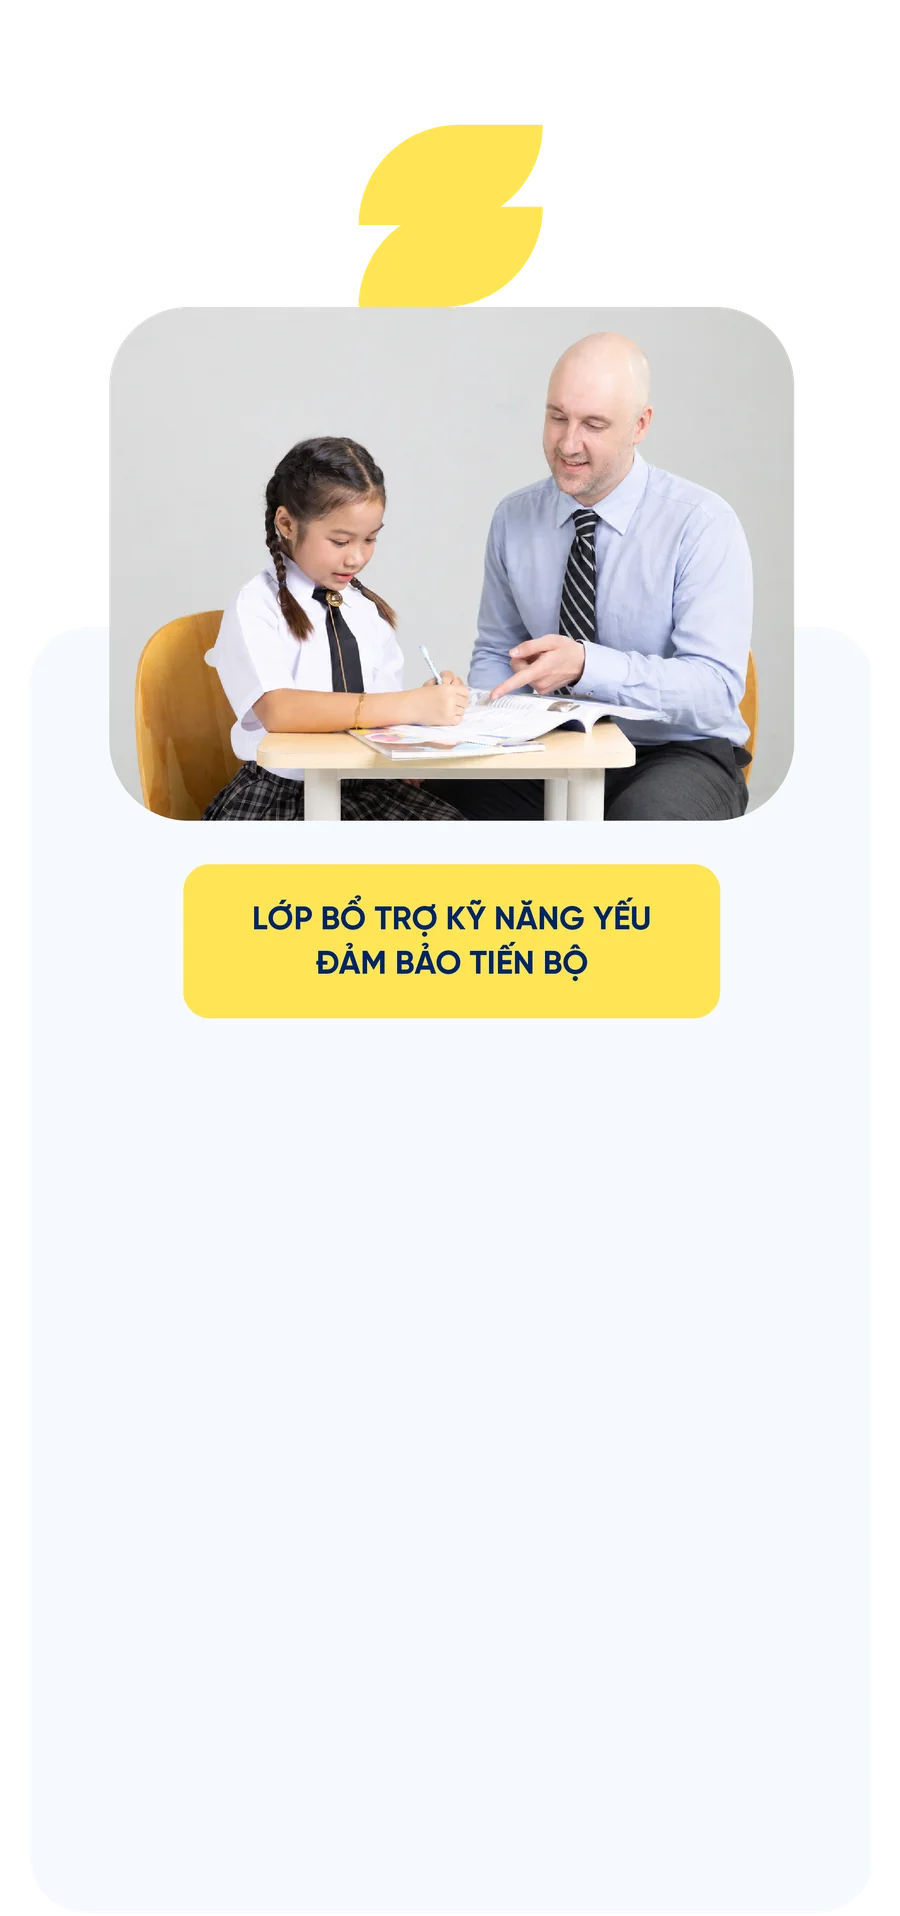
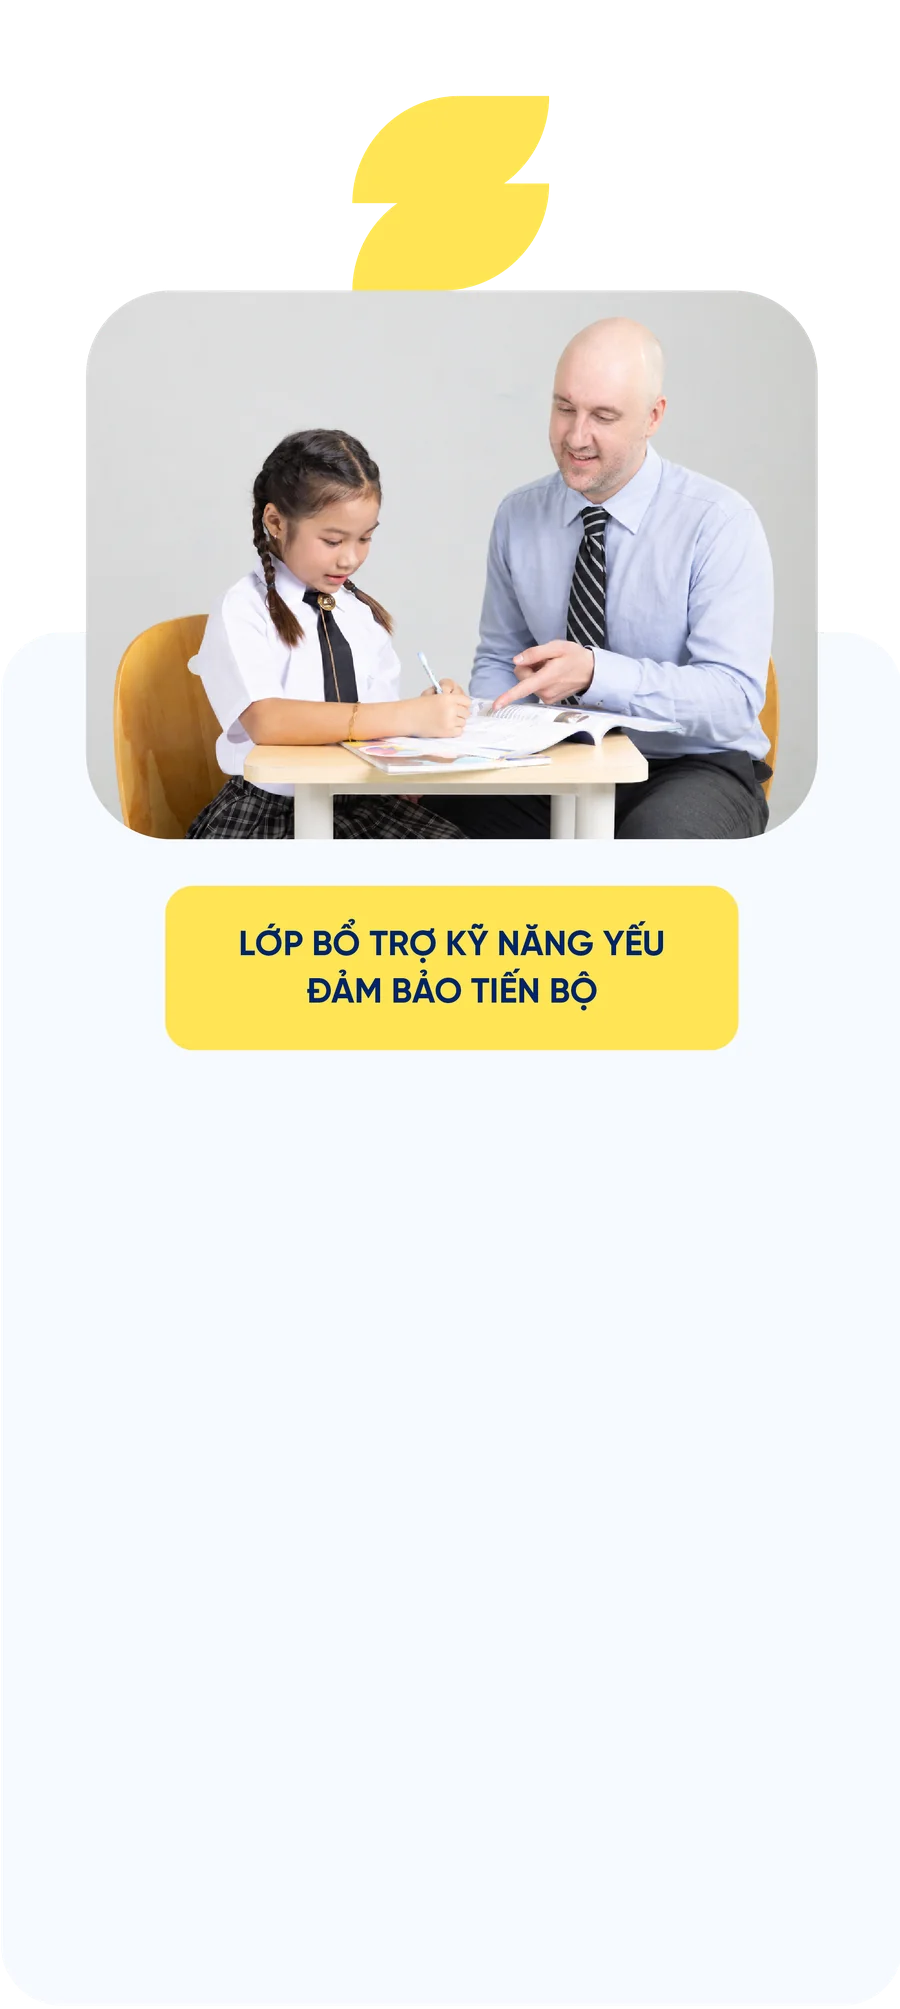
LP giới thiệu YOLA mobile: tắt autoplay học viên/giáo viên, chữ card section 2-3 to hơn, card section 3 to bằng section 2
Claude-Session: https://claude.ai/code/session_01SFdUKDWz5C1xDm6uD4ha55

Changed region(s): [[0.0933, 0.0308, 0.9333, 0.5543]]

diff --git a/gioi-thieu-yola/index.html b/gioi-thieu-yola/index.html
@@ -332,7 +332,7 @@ footer li a:hover{color:var(--sky)}
   .v2-s3 .s3-rest-m{display:block;text-align:center;color:#fff;font-weight:800;font-size:22px;text-transform:uppercase;margin:-6px 0 22px}
   #stu-scroll2{grid-auto-columns:80vw}
   #tch-scroll2{grid-auto-columns:76vw}
-  .car-wrap.cslide .car-scroll{padding-left:16px;padding-right:16px;scroll-padding-left:16px}
+  .car-wrap .car-scroll{padding-left:16px;padding-right:16px;scroll-padding-left:16px}
 }
 @media(min-width:821px){.v2-s3 .s3-rest-m{display:none}}
 
@@ -343,7 +343,7 @@ footer li a:hover{color:var(--sky)}
 @media(max-width:820px){.cslide{margin:0 -24px}}
 .cslide-track{grid-auto-columns:88vw;gap:8px;padding:6px 40px 12px;scroll-padding-left:40px;align-items:end}
 .cslide-card{border-radius:0;margin:0;width:100%}
-.cslide-card .tb{font-size:3.6cqw;line-height:1.5}
+.cslide-card .tb{font-size:4.2cqw;line-height:1.5}
 .cslide-card .tb.navy{color:#0B2467}
 .cslide-dots{display:flex;justify-content:center;gap:8px;margin-top:4px}
 .cslide-dots i{width:8px;height:8px;border-radius:50%;background:rgba(0,36,103,.22);display:block;transition:all .25s}
@@ -366,7 +366,7 @@ footer li a:hover{color:var(--sky)}
 .s3-head{display:flex;align-items:center;justify-content:center;gap:10px;flex-wrap:wrap;margin:0 auto 24px}
 .s3-head img{width:min(250px,60vw);height:auto}
 .s3-head span{color:#fff;font-weight:800;font-size:26px;text-transform:uppercase;letter-spacing:.01em;line-height:1}
-#s3slide .cslide-card .tb{font-size:3.9cqw}
+#s3slide .cslide-card .tb{font-size:4.2cqw}
 </style>
 </head>
 <body>
@@ -409,7 +409,7 @@ footer li a:hover{color:var(--sky)}
   <div class="only-m">
     <div class="s3-head"><img src="../assets/img_rb_s3_title_m.webp" alt="Rõ tiến bộ" width="900" height="286" loading="lazy"><span>Trên từng khoá học</span></div>
     <div class="cslide" id="s3slide" data-autoplay="4200">
-      <div class="cslide-track car-scroll" id="s3slide-track"><div class="comp cslide-card"><img src="../assets/img_rb_s3_card1_m.webp" alt="" loading="lazy" width="900" height="1916"><div class="tb dark" style="left:8.12%;top:55.95%;width:84.06%;height:41.10%"><p>Sau mỗi buổi học, ba mẹ được cập nhật chi tiết qua Zalo: hôm nay con học gì, 4 kỹ năng tiến bộ đến đâu, con thể hiện thế nào trong&nbsp;lớp.</p></div></div><div class="comp cslide-card"><img src="../assets/img_rb_s3_card2_m.webp" alt="" loading="lazy" width="900" height="1916"><div class="tb dark" style="left:8.12%;top:55.83%;width:84.06%;height:41.10%"><p>Con cần hỗ trợ kỹ năng nào, thầy cô kèm kịp thời kỹ năng đó. Khi phát hiện kỹ năng yếu, học sinh được học miễn phí: lớp kèm riêng, học nhóm, ôn ngữ pháp hay luyện Cambridge trước kỳ&nbsp;thi.</p><p>Phát hiện sớm, hỗ trợ sát sao kịp thời để đảm bảo sự tiến bộ cho&nbsp;con.</p></div></div><div class="comp cslide-card"><img src="../assets/img_rb_s3_card3_m.webp" alt="" loading="lazy" width="900" height="1916"><div class="tb dark" style="left:7.97%;top:55.58%;width:84.35%;height:41.10%"><p>Lớp trung bình 11–12 học sinh để buổi nào con cũng được nói, được&nbsp;sửa.</p><p>Giáo viên sâu sát, biết điểm mạnh và điểm yếu của từng học&nbsp;sinh.</p></div></div></div>
+      <div class="cslide-track car-scroll" id="s3slide-track"><div class="comp cslide-card"><img src="../assets/img_rb_s3_card1_m.webp" alt="" loading="lazy" width="900" height="2009"><div class="tb dark" style="left:7.50%;top:55.12%;width:85.00%;height:42.75%"><p>Sau mỗi buổi học, ba mẹ được cập nhật chi tiết qua Zalo: hôm nay con học gì, 4 kỹ năng tiến bộ đến đâu, con thể hiện thế nào trong&nbsp;lớp.</p></div></div><div class="comp cslide-card"><img src="../assets/img_rb_s3_card2_m.webp" alt="" loading="lazy" width="900" height="2009"><div class="tb dark" style="left:7.50%;top:55.00%;width:85.00%;height:42.75%"><p>Con cần hỗ trợ kỹ năng nào, thầy cô kèm kịp thời kỹ năng đó. Khi phát hiện kỹ năng yếu, học sinh được học miễn phí: lớp kèm riêng, học nhóm, ôn ngữ pháp hay luyện Cambridge trước kỳ&nbsp;thi.</p><p>Phát hiện sớm, hỗ trợ sát sao kịp thời để đảm bảo sự tiến bộ cho&nbsp;con.</p></div></div><div class="comp cslide-card"><img src="../assets/img_rb_s3_card3_m.webp" alt="" loading="lazy" width="900" height="2009"><div class="tb dark" style="left:7.50%;top:54.75%;width:85.00%;height:42.75%"><p>Lớp trung bình 11–12 học sinh để buổi nào con cũng được nói, được&nbsp;sửa.</p><p>Giáo viên sâu sát, biết điểm mạnh và điểm yếu của từng học&nbsp;sinh.</p></div></div></div>
       <div class="cslide-dots" aria-hidden="true"></div>
     </div>
   </div>
@@ -421,7 +421,7 @@ footer li a:hover{color:var(--sky)}
     <img class="v2-title t4" src="../assets/img_rb_s4_title.webp" alt="Thành tích học viên xuất sắc" width="1800" height="282" loading="lazy">
     <div class="title-m"><img class="l-s4a" src="../assets/img_rb_s4_title_l1.webp" alt="Thành tích" loading="lazy"><img class="l-s4b" src="../assets/img_rb_s4_title_l2.webp" alt="Học viên xuất sắc" loading="lazy"></div>
     <div class="stu-tabs" id="stu-tabs2" style="--tabc:var(--navy)"></div>
-    <div class="car-wrap cslide" data-autoplay="3800" data-nodots="1">
+    <div class="car-wrap">
       <button type="button" class="car-arrow left" data-target="stu-scroll2" aria-label="Trước">‹</button>
       <div class="car-scroll" id="stu-scroll2"></div>
       <button type="button" class="car-arrow right" data-target="stu-scroll2" aria-label="Sau">›</button>
@@ -435,7 +435,7 @@ footer li a:hover{color:var(--sky)}
   <div class="wrap">
     <img class="v2-title t5" src="../assets/img_rb_s5_title.webp" alt="Giáo viên 100% chứng chỉ giảng dạy" width="1800" height="267" loading="lazy">
     <div class="title-m"><img class="l-s5a" src="../assets/img_rb_s5_title_l1.webp" alt="Giáo viên" loading="lazy"><img class="l-s5b" src="../assets/img_rb_s5_title_l2.webp" alt="100% chứng chỉ giảng dạy" loading="lazy"></div>
-    <div class="car-wrap cslide" data-autoplay="3800" data-nodots="1">
+    <div class="car-wrap">
       <button type="button" class="car-arrow left" data-target="tch-scroll2" aria-label="Trước">‹</button>
       <div class="car-scroll" id="tch-scroll2"></div>
       <button type="button" class="car-arrow right" data-target="tch-scroll2" aria-label="Sau">›</button>
